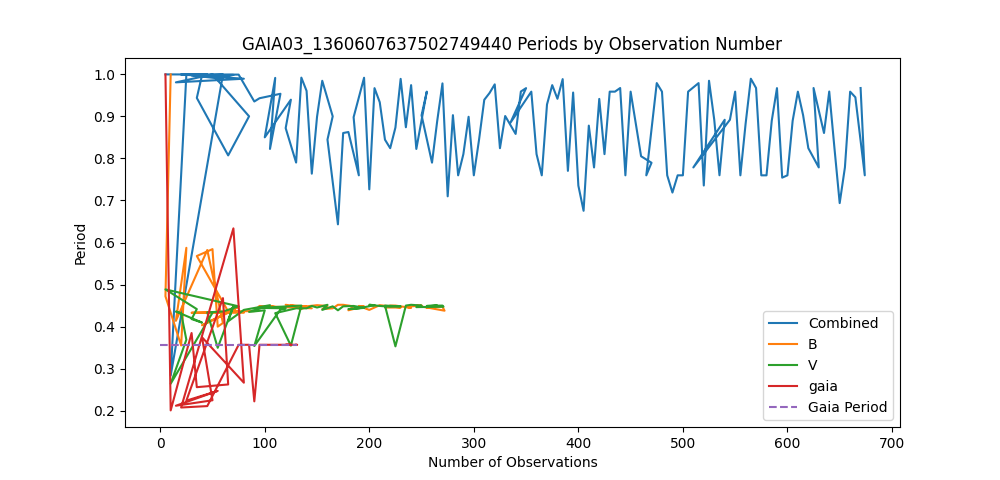
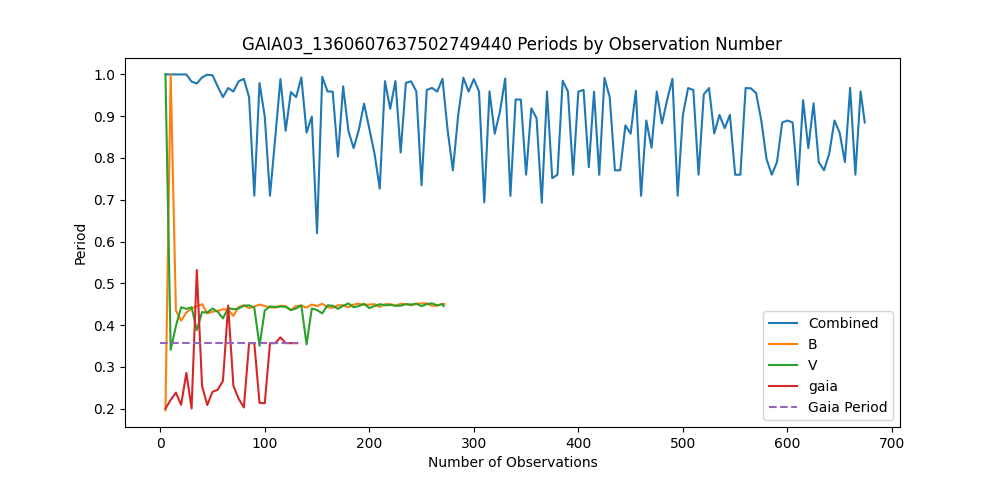
Add function to find minimum observations for period stabilization

diff --git a/optimizer.py b/optimizer.py
@@ -2,6 +2,7 @@
 import concurrent.futures
 
 import matplotlib.pyplot as plt
+import numpy as np
 import pandas as pd
 
 from utils.data_utils import get_star_lookup_data, get_star_photometry
@@ -56,6 +57,36 @@ def get_gaia_period(star_id: str) -> float:
     return gaia_data['rrl.pf'].values[0]
 
 
+def find_min_observations(data: dict, std_threshold=0.005, window=5):
+    """
+    Find the minimum number of observations required to stabilize the period using rolling standard deviation.
+
+    Parameters:
+        data (dict): A dictionary where keys are the number of observations, and values are the periods.
+        std_threshold (float): The maximum allowed rolling standard deviation for stabilization.
+        window (int): The number of consecutive observations used in the rolling window.
+
+    Returns:
+        int: The minimum number of observations required to stabilize the period.
+    """
+    observations = sorted(data.keys())
+    periods = [data[o] for o in observations]
+
+    # Convert periods to a Pandas Series for rolling operations
+    period_series = pd.Series(periods)
+
+    # Calculate the rolling standard deviation
+    rolling_std = period_series.rolling(window=window).std()
+
+    # Find the first point where the rolling standard deviation is below the threshold
+    stable_idx = np.nonzero(rolling_std <= std_threshold)[0]
+
+    if len(stable_idx) > 0:
+        return observations[stable_idx[0]]
+    else:
+        return None  # Return None if no stabilization is found
+
+
 def plot_periods_by_observation_number(periods_by_observation_number: dict, gaia_period: float, title: str = None):
     """
     Plot the periods by observation number for a given star.
@@ -68,8 +99,17 @@ def plot_periods_by_observation_number(periods_by_observation_number: dict, gaia
     if title is not None:
         plt.title(title)
     for key in periods_by_observation_number:
+        print(f'Last period found for {key}: {periods_by_observation_number[key][max(
+            periods_by_observation_number[key].keys())]}')
+        min_observations = find_min_observations(
+            periods_by_observation_number[key])
         plt.plot(periods_by_observation_number[key].keys(),
                  periods_by_observation_number[key].values(), label=key)
+        if min_observations is not None:
+            print(f'Stabilization Point for {key}: {min_observations} with period {
+                  periods_by_observation_number[key][min_observations]}')
+            plt.plot([min_observations, min_observations], [0, 1],
+                     label='Stabilization Point for ' + key, linestyle='--')
     plt.plot([0, max(periods_by_observation_number[key].keys())], [gaia_period, gaia_period],
              label='Gaia Period', linestyle='--')
     plt.legend()
@@ -79,17 +119,26 @@ def plot_periods_by_observation_number(periods_by_observation_number: dict, gaia
 if __name__ == '__main__':
     STAR_ID = 'GAIA03_1360607637502749440'
     PHOTOMETRY_PATH = 'data/photometry/' + STAR_ID
+    PERIODS_PATH = 'data/periods/' + STAR_ID
     ONLY_COMBINED = False
+    LOAD_FROM_FILE = True
 
-    photometry_data = get_star_photometry(PHOTOMETRY_PATH)
-    combined_photometry = pd.concat(photometry_data.values())
-    periods_by_observation_number = {
-        "Combined": get_periods_by_observation_number(combined_photometry)
-    }
-    if not ONLY_COMBINED:
-        for key in photometry_data:
-            periods_by_observation_number[key] = get_periods_by_observation_number(
-                photometry_data[key])
+    periods_by_observation_number = {}
+
+    if not LOAD_FROM_FILE:
+        photometry_data = get_star_photometry(PHOTOMETRY_PATH)
+        # combined_photometry = pd.concat(photometry_data.values())
+        # periods_by_observation_number = {
+        #     "Combined": get_periods_by_observation_number(combined_photometry)
+        # }
+        if not ONLY_COMBINED:
+            for key in photometry_data:
+                periods_by_observation_number[key] = get_periods_by_observation_number(
+                    photometry_data[key])
+        np.save(PERIODS_PATH, periods_by_observation_number)
+    else:
+        periods_by_observation_number = np.load(
+            PERIODS_PATH + '.npy', allow_pickle=True).item()
 
     plot_periods_by_observation_number(
         periods_by_observation_number, get_gaia_period(STAR_ID), STAR_ID + ' Periods by Observation Number')
